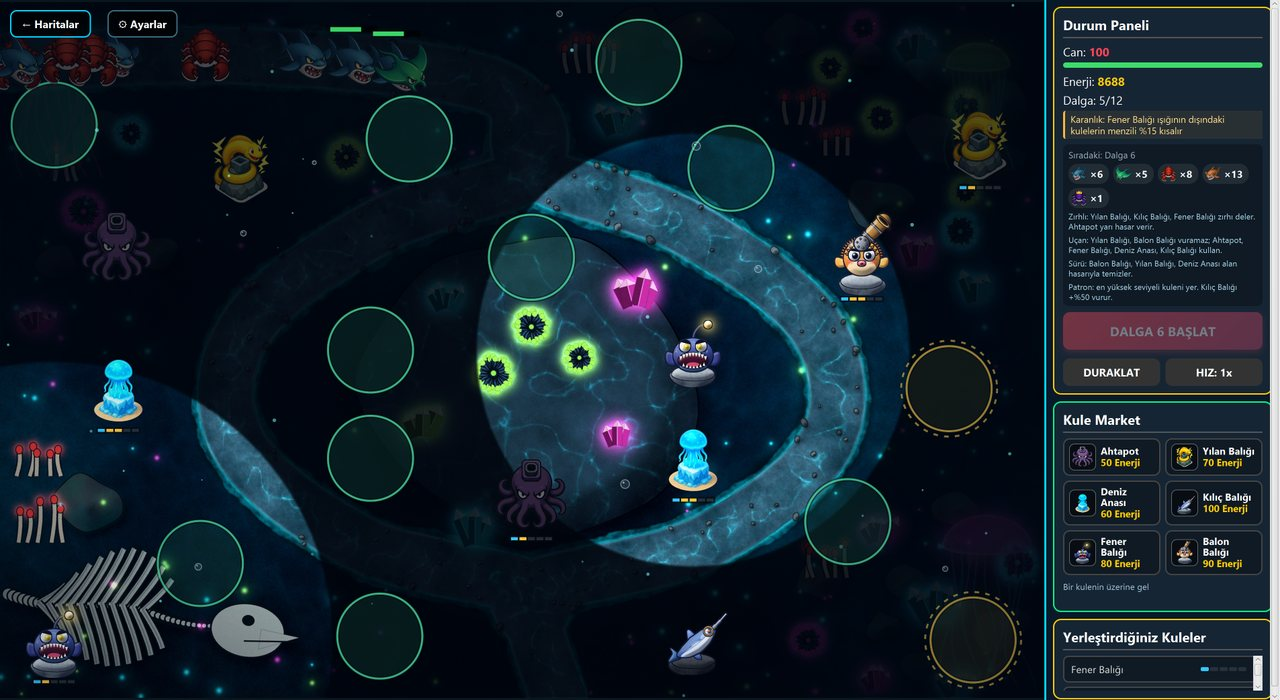
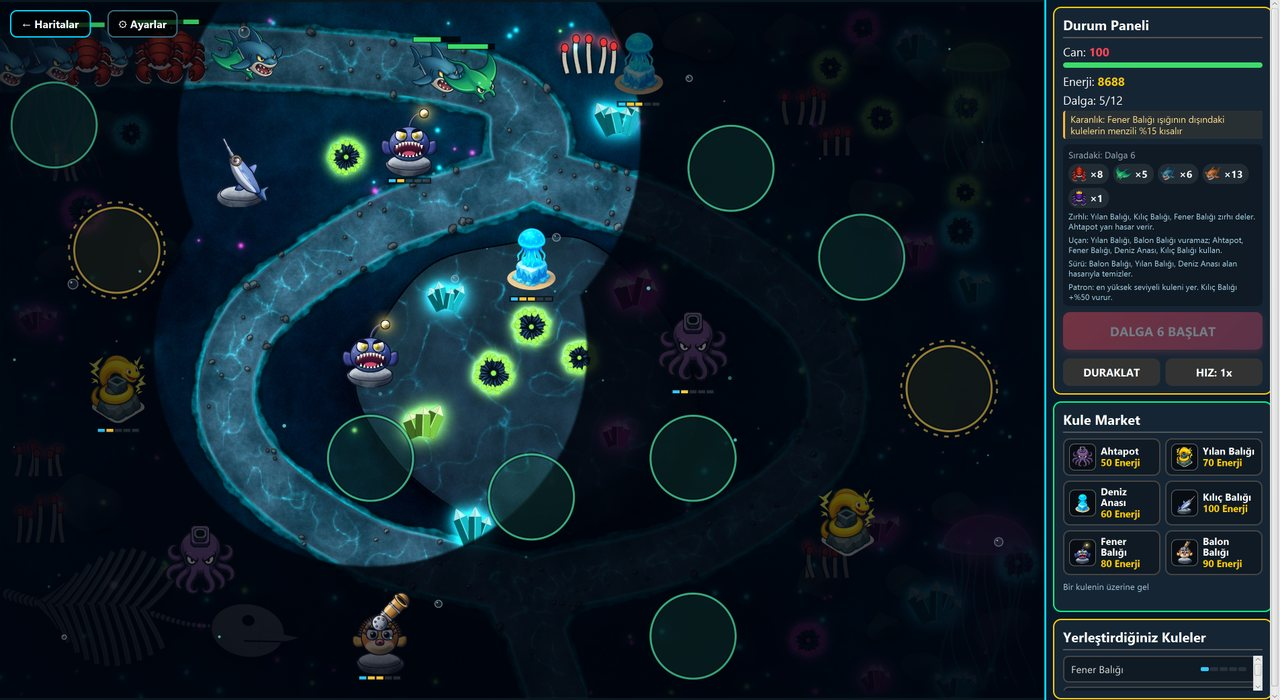
readme guncellendi

diff --git a/README.md b/README.md
@@ -10,7 +10,7 @@ Derin Çukur haritasından bir kare: Fener Balıkları karanlığı aydınlatıy
 
 ## Oynanış
 
-- **9 harita**, her birinin yolu, atmosferi ve özel kuralı farklı (aşağıdaki tabloya bak). Her haritada 20-25 kule yeri vardır ve harita boyunca dengeli dağılır; yola yakın yerler kısa menzilli kulelere, uzak ve yüksek (altın halkalı) yerler uzun menzilli kulelere uyar
+- **9 harita**, her birinin yolu, atmosferi ve özel kuralı farklı (aşağıdaki tabloya bak). Her haritada 15-25 kule yeri vardır; hepsi yola yetişir (yol kıvrımlarının iç tarafları dahil) ve harita boyunca dengeli dağılır. Yola yakın yerler kısa menzilli kulelere uyar, biraz daha uzak yüksek (altın halkalı) yerlerin menzili %20 artar
 - **6 kule türü**, her harita bunlardan 4-6 tanesini sunar:
   - Ahtapot: hızlı, havayı da vurur, zırhlıya çok zayıf
   - Yılan Balığı: alan şoku, zırh deler, havayı vuramaz
@@ -72,7 +72,7 @@ Her haritanın yolu farklı olduğu gibi kendine özel bir kuralı da var. Kural
 | Harita | Yol | Özel kural |
 |---|---|---|
 | Mercan Kanalı | tek, S dönüşlü | yok (başlangıç haritası) |
-| Yosun Ormanı | tek, uzun yılan | işaretli yosun yataklarında düşmanlar %38 yavaşlar |
+| Yosun Ormanı | tek, uzun yılan | yolun iki virajındaki yosun yataklarında düşmanlar %38 yavaşlar |
 | Mangrov Deltası | nehir üçe ayrılır, sonra birleşir | kök bölgesinde düşmanlar %30 yavaşlar |
 | Batık Gemi Mezarlığı | iki girişli, ortada birleşir | sandık ara sıra parlar, **tıklayıp** altın toplarsın |
 | Atlantis Harabeleri | mermer basamaklar | 3 taş koruyucu baş her 10 sn düşmanlara vurup sersemletir |
@@ -126,6 +126,25 @@ Tüm sesleri WAV olarak yazmak ve düzeylerini görmek için:
 java -cp target/classes com.kule.savunma.SoundBank sesler
 ```
 
+## Görsel kaynakları
+
+- Menü arka planı: Johannes Andersson'ın dalga fotoğrafı ([Unsplash](https://unsplash.com/photos/v5gGwubKzEA), Wikimedia Commons üzerinden CC0), sol bölümü kırpılıp 2560x1440'a getirildi
+- Harita arka planları `tools/mapgen` betikleriyle üretilir; Mercan Kanalı'nın arka planı özgün resmin 2700x1800'e büyütülmüş halidir
+- Kule, düşman ve patron sprite'ları `tools/sprites` betikleriyle üretilir
+
+## Yapılabilecekler
+
+Proje bu haliyle tamamlanmış sayılır; devam edilmek istenirse sırasıyla şunlar en çok değer katar:
+
+1. **Kule yetenek seçimi:** 3. seviyede iki yetenekten birini seçmek (ör. Ahtapot: çift mermi ya da zırh delen mürekkep). Aynı kuleyle farklı oyun tarzları açar
+2. **Yeni düşman davranışları:** iyileştiren, kalkan taşıyan, kulenin ışığından kaçıp gizlenen düşmanlar; böylece "tek tür yığmak" ve "hep aynı dizilim" daha da cezalanır
+3. **Özel güçler:** dalga başına bir kez kullanılan bomba, dondurma ya da onarım gibi tıklanabilir yetenekler
+4. **İlerleme ve günlük meydan okuma:** yıldızla açılan kuleler/haritalar, başarımlar, sabit tohumlu günlük harita ve yerel skor tablosu
+5. **Ses ve atmosfer:** haritaya özel ortam müziği ve su altı sesleri (şimdiki sesler kodla üretiliyor, müzik yok)
+6. **Erişilebilirlik:** renk körü paleti, yazı boyutu ayarı, tamamen klavyeyle oynama, İngilizce dil seçeneği
+7. **Harita editörü:** yol ve kule yerlerini tuvalde çizip `maps.js` çıktısı veren küçük bir araç (şimdi Python betikleri ve elle koordinat gerekiyor)
+8. **Otomatik denetim ve dağıtım:** GitHub Actions ile `node tools/test_core.js` ve `mvn compile`, `jpackage` ile Windows kurulum dosyası; kullanılmayan `model/` paketinin kaldırılması
+
 ## Teknoloji
 
 - Java 25+, JavaFX (controls, fxml, web)
@@ -151,14 +170,14 @@ BOTS=rastgele,karisik SEEDS=11,23,37,41,59 node tools/balans.js yosun   # bot ve
 python tools/mapgen/build.py         # harita arka planlarını ve önizlemelerini yeniden üretir
 python tools/mapgen/export_js.py --write   # yolları (ve ilk kule yerlerini) maps.js'e yazar
 python tools/mapgen/spots.py         # kule yerlerinin dağılımını önizler (tools/mapgen/spots_preview/)
-python tools/mapgen/spots.py --write # boş kalan bölgelere yer ekleyip maps.js'e yazar
+python tools/mapgen/spots.py --write # yolu kapsamayan yerleri siler, boş bölgelere yer ekleyip maps.js'e yazar
 python tools/sprites/build.py        # kule, mermi ve patron sprite'larını üretir
 python tools/sprites/logo.py         # logo ve uygulama simgesi
 ```
 
 Denge botları: `spam` her yere tek tür dizer, `rastgele` türü, yeri ve yükseltmeyi rastgele seçip parayı bitirir, `karisik` türleri sırayla kullanıp en iyi yerlere dizer, `akilli` bunu sıradaki dalganın içeriğine göre uyarlar. Amaç `spam` ve `rastgele` normal zorlukta kaybederken `karisik`ın kazanmasıdır; yeni bir harita ya da kural eklerken `hpScale` buna göre ayarlanır.
 
-`spots.py` elle yerleştirilmiş yerleri korur; yolun 80-350 piksel çevresinde, aralarında en az ~170 piksel boşluk kalmayacak biçimde yeni yerler ekler (yola uzak olanlar yüksek zemin olur) ve arka planın en karmaşık bölgelerinden (iskelet, kristal öbeği) kaçınır. `export_js.py` kule yerlerini de yeniden yazdığı için sırayla çalıştırılmalıdır: önce `export_js.py --write`, sonra `spots.py --write`.
+`spots.py` her yeri üç kurala göre denetler: yolun eksenine en az 80 piksel uzakta olmalı, normal yer en çok 185, yüksek zemin en çok 235 piksel uzakta olabilir ve en kısa menzilli kuleyle (200 piksel) yolun en az 150 pikselini kapsamalı. Kurallara uyan elle yerleştirilmiş yerleri korur, uymayanları siler, yola yakın bölgelerde ~170 pikselden büyük boşluk kalmayacak biçimde viraj içleri gibi yolu çok kapsayan noktalara yeni yerler ekler ve arka planın en karmaşık bölgelerinden (iskelet, kristal öbeği) kaçınır. `export_js.py` kule yerlerini de yeniden yazdığı için sırayla çalıştırılmalıdır: önce `export_js.py --write`, sonra `spots.py --write`.
 
 Harita arka planları ve yeni sprite'lar `tools` altındaki Python betikleriyle üretilir (numpy, scipy, Pillow gerekir); arka planlar 2700x1800 çözünürlüktedir.
 Kendi çizdiğiniz ya da bir görsel üreticiyle oluşturduğunuz bir arka planı kullanmak için `maps.js`'e yeni bir
